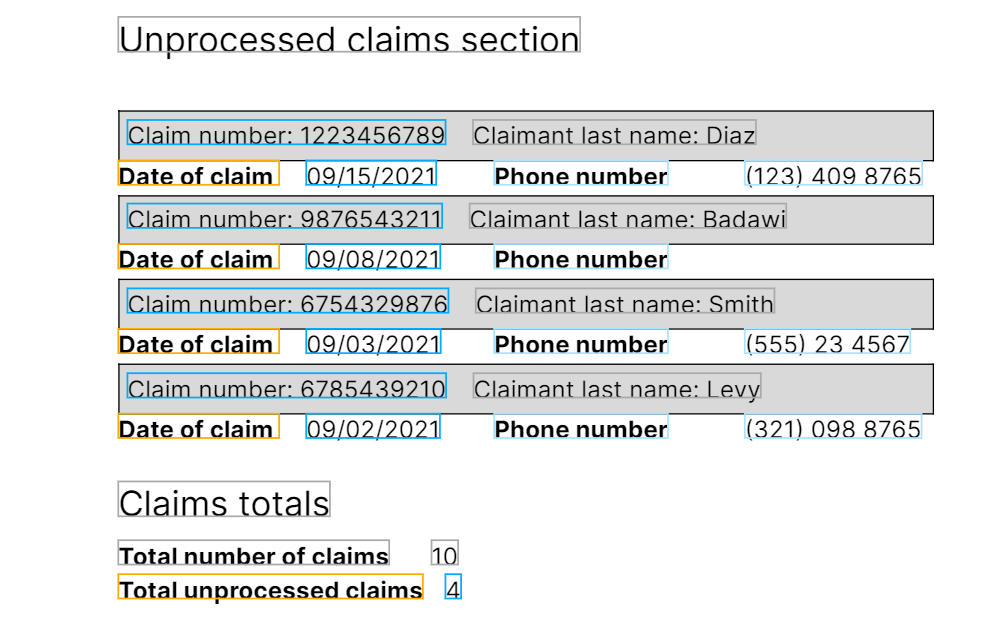
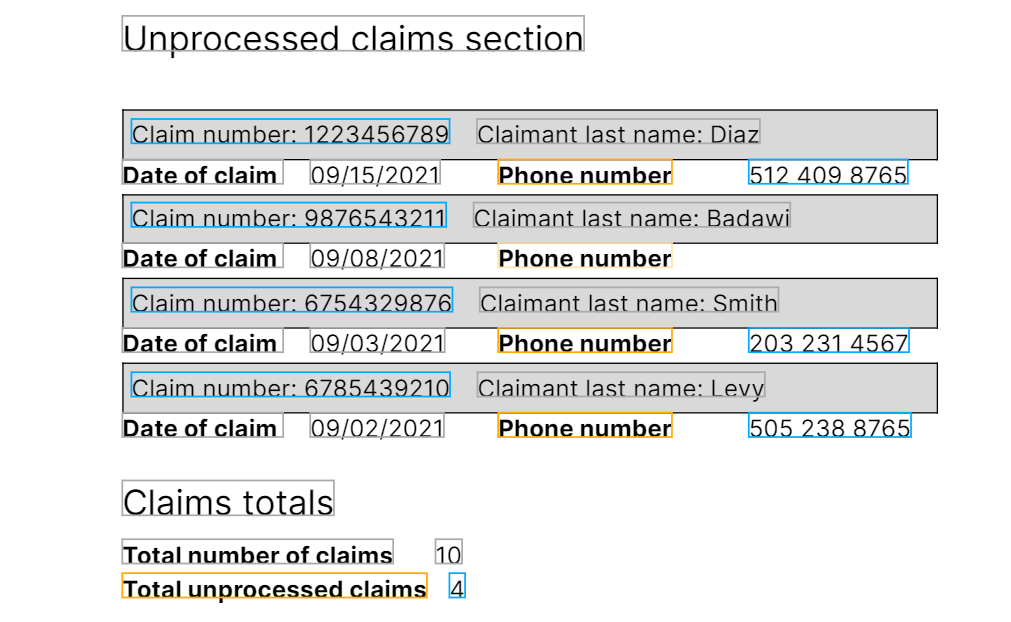
sections

diff --git a/readme-sync/v0/senseml-reference/5100 - other-extraction-methods/1000 - draft-sections.md b/readme-sync/v0/senseml-reference/5100 - other-extraction-methods/1000 - draft-sections.md
@@ -3,11 +3,11 @@ title: "Sections"
 hidden: true
 ---
 
-Extracts data from a section of the document that contains repeated elements. Sensible returns an array of objects corresponding to the elements. The following image shows an example of a repeated section:
+Extracts data from a section of the document that contains repeated elements. Sensible returns an array of objects corresponding to the elements. The following image shows an example of a section with repeated elements:
 
 ![](https://raw.githubusercontent.com/sensible-hq/sensible-docs/main/readme-sync/assets/v0/images/final/sections_1.png)
 
-For the preceding example, you can configure Sensible to return a `unprocessed_claims` array of objects, where each object contains a `claim_number`, `claim_date`, `claimant_last_name`, etc.
+For the preceding example, you can configure Sensible to return a `unprocessed_claims` array, where each object in the array contains a `claim_number`, `claim_date`, `claimant_last_name`, etc.
 
 Parameters
 ====
@@ -17,12 +17,14 @@ Parameters
 | --------------------- | ------------------------------------------------------ | ------------------------------------------------------------ |
 | id (**required**)     | string                                                 | the id of the section. You can have multiple sections in a document, and you can nest sections inside of other sections. |
 | range  (**required**) | object                                                 | Specifies to search for repeated elements between matching Anchor and Stop parameters. Contains these parameters:<br/><br/>**anchor** (**required**)-an [Anchor](doc:anchor) or string object that defines the start of the section. Specify the first line in each repeating element for this element. For example, in the preceding image, specify `"Claim number"`.  <br/> **stop** - a string or [Match](doc:match) object or array of Match objects that defines either:<br/>- the end of the section. In the preceding image, for example, `"Claims totals"`.<br/>- the end of the repeating element within the section. For example, if you specify `"Date of claim"`, then the section would ignore everything past the claimant's last name in each repeating element. <br/> If you leave this parameter unspecified, then the last repeating element in the section continues to the end of the document.<br/> |
-| fields (**required**) | array of [Field objects](doc:field-query-object)       | The fields in each repeating element that you want to extract repeatedly as an array.  If the field anchor doesn't correspond to a repeating element, or if it matches to data that falls outside the Range parameter, the field returns null. In the preceding example, you can extract `date_of_claim` and `phone_number` in a section, but you can *only* extract  `total_unprocessed_claims`  in the main fields array, not in a section. |
-| sections              |                                                        | if you want to nest sections. TBD                            |
+| fields (**required**) | array of [Field objects](doc:field-query-object)       | The fields in each repeating element that you want to extract repeatedly as an array.  If the field anchor doesn't correspond to a repeating element, or if it matches to data that falls outside the Range parameter, the field returns null. For example, in the preceding image, you can extract `date_of_claim` and `phone_number` in a section, but you can *only* extract  `total_unprocessed_claims`  in the main fields array, not in a section. |
+| sections              |                                                        | Specifies sections inside sections. Use this for complex sections that contain nested repeated elements. |
 | computed_fields       | array of [Computed fields](doc:computed-field-methods) | Transform the output of the fields.                          |
 
 Examples
 ====
+
+The following example shows extracting a list of claims from a section containing a list of claims.
 
 **Config**
 
@@ -72,17 +74,18 @@ Examples
           }
         },
         {
-          "id": "date_of_claim",
-          "type": "date",
+          "id": "phone_number",
+          "type": "phoneNumber",
+          "anchor": {
+            "match": {
+              "type": "includes",
+              "text": "Phone number",
+              "isCaseSensitive": true
+            }
+          },
           "method": {
             "id": "row",
             "position": "right"
-          },
-          "anchor": {
-            "match": {
-              "type": "equals",
-              "text": "date of claim"
-            }
           }
         }
       ]
@@ -116,10 +119,10 @@ The following image shows the data extracted by this config for the following ex
         "value": 1223456789,
         "type": "number"
       },
-      "date_of_claim": {
-        "source": "09/15/2021",
-        "value": "2021-09-15T00:00:00.000Z",
-        "type": "date"
+      "phone_number": {
+        "type": "phoneNumber",
+        "source": "512 409 8765",
+        "value": "+15124098765"
       }
     },
     {
@@ -128,11 +131,7 @@ The following image shows the data extracted by this config for the following ex
         "value": 9876543211,
         "type": "number"
       },
-      "date_of_claim": {
-        "source": "09/08/2021",
-        "value": "2021-09-08T00:00:00.000Z",
-        "type": "date"
-      }
+      "phone_number": null
     },
     {
       "claim_number": {
@@ -140,10 +139,10 @@ The following image shows the data extracted by this config for the following ex
         "value": 6754329876,
         "type": "number"
       },
-      "date_of_claim": {
-        "source": "09/03/2021",
-        "value": "2021-09-03T00:00:00.000Z",
-        "type": "date"
+      "phone_number": {
+        "type": "phoneNumber",
+        "source": "203 231 4567",
+        "value": "+12032314567"
       }
     },
     {
@@ -152,10 +151,10 @@ The following image shows the data extracted by this config for the following ex
         "value": 6785439210,
         "type": "number"
       },
-      "date_of_claim": {
-        "source": "09/02/2021",
-        "value": "2021-09-02T00:00:00.000Z",
-        "type": "date"
+      "phone_number": {
+        "type": "phoneNumber",
+        "source": "505 238 8765",
+        "value": "+15052388765"
       }
     }
   ]
